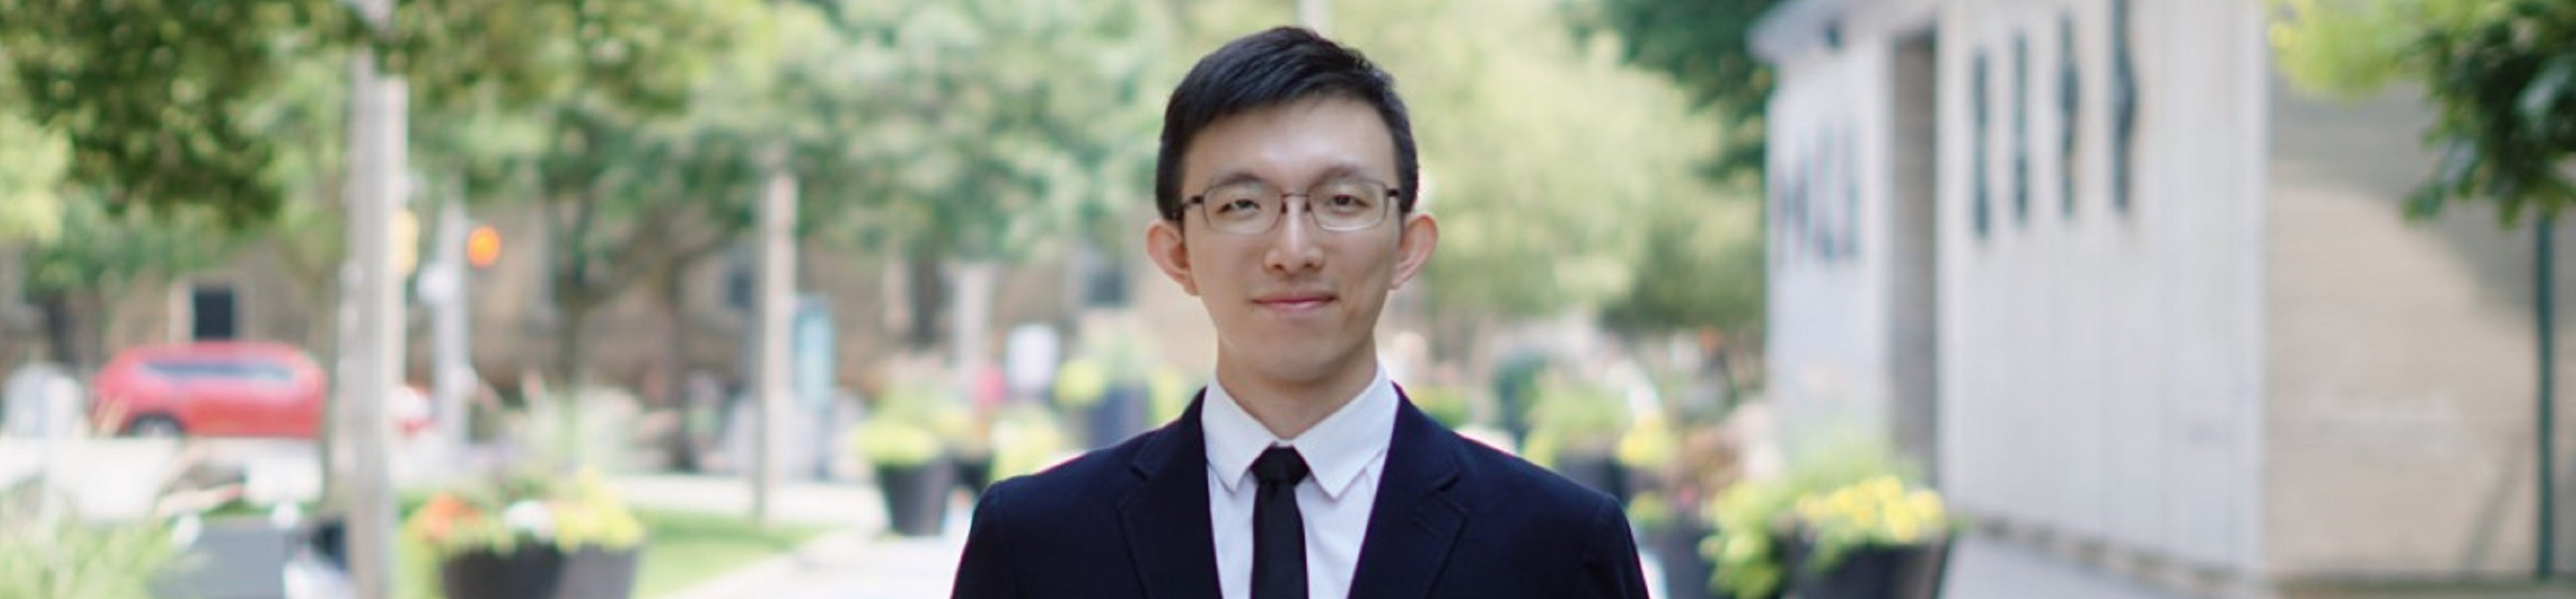
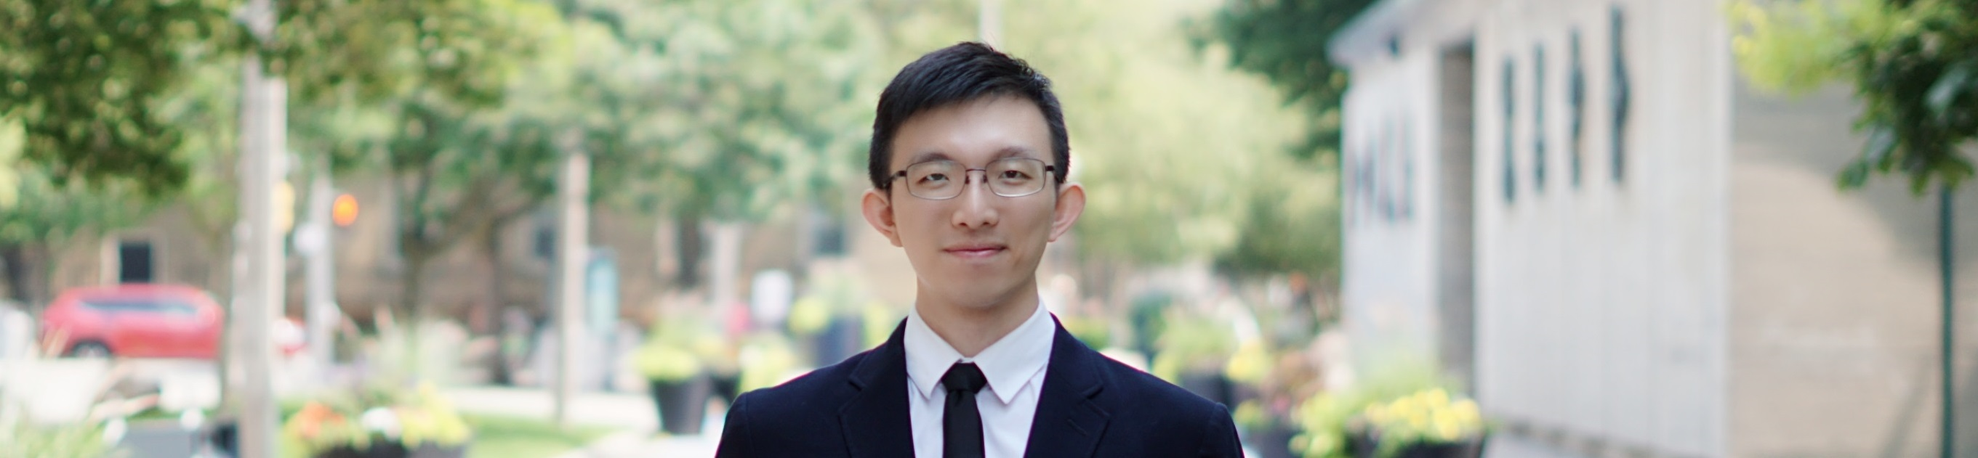
Photo Changes

diff --git a/index.html b/index.html
@@ -73,7 +73,7 @@
         <div class ="home-container">
             <div class="list-container">
                 <div class="list-image">
-                    <img src="Images/Homephoto.jpg" style="opacity: 0.9;filter: brightness(85%);">
+                    <img src="Images/Homephoto.jpg" style="opacity: 0.9;filter: brightness(80%);">
                 </div>
         
         <div class='row'>
